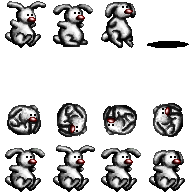
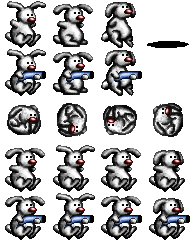
Gun for a bunny

diff --git a/src/scenes/game/player.c b/src/scenes/game/player.c
@@ -173,6 +173,11 @@ static void pl_animate(Player* pl, float tm) {
     else if (pl->flapping) {
 
         spr_animate(&pl->spr, 3, 0, 3, FLAP_SPEED, tm);
+
+        if (pl->shootWait > 0.0f) {
+
+            ++ pl->spr.row;
+        }
     }
     else {
 
@@ -183,6 +188,11 @@ static void pl_animate(Player* pl, float tm) {
 
         pl->spr.frame = frame;
         pl->spr.row = 0;
+
+        if (pl->shootWait > 0.0f) {
+
+            ++ pl->spr.row;
+        }
     }
 }
 
@@ -233,7 +243,10 @@ static void pl_update_bullets(Player* pl, EventManager* evMan, float tm) {
     const float SPEED_MOD = 0.25f;
     const float SPEED_NORMAL = 4.0f;
     const float SPEED_BIG = 3.0f;
-    const float BIG_WAIT = 10.0f;
+    const float SHOOT_ANIM_TIME = 60.0f;
+
+    const float BULLET_X_OFF = 16;
+    const float BULLET_Y_OFF = -21;
 
     int i;
     int s = pad_get_button_state(evMan->vpad, "fire2");
@@ -244,7 +257,7 @@ static void pl_update_bullets(Player* pl, EventManager* evMan, float tm) {
         pl->loading && 
         s == StateReleased && 
         pl->loadTimer >= 0.0f;
-    if ( pl->shootWait <= 0.0f && (s == StatePressed || makeBig)) {
+    if (s == StatePressed || makeBig) {
 
         for (i = 0; i < BULLET_COUNT; ++ i) {
 
@@ -257,7 +270,8 @@ static void pl_update_bullets(Player* pl, EventManager* evMan, float tm) {
 
         if (b != NULL) {
 
-            bullet_activate(b, vec2(pl->pos.x+12, pl->pos.y-24),
+            bullet_activate(b, 
+                vec2(pl->pos.x+BULLET_X_OFF, pl->pos.y+BULLET_Y_OFF),
                
                 vec2(pl->speed.x*SPEED_MOD + (makeBig ? SPEED_BIG : SPEED_NORMAL),
                      pl->speed.y*SPEED_MOD), 
@@ -266,7 +280,7 @@ static void pl_update_bullets(Player* pl, EventManager* evMan, float tm) {
             pl->loading = (makeBig ? false : true);
             pl->loadTimer = LOAD_INITIAL;
 
-            pl->shootWait = makeBig ? BIG_WAIT : 0.0f;
+            pl->shootWait = SHOOT_ANIM_TIME;
         }
     }
 
